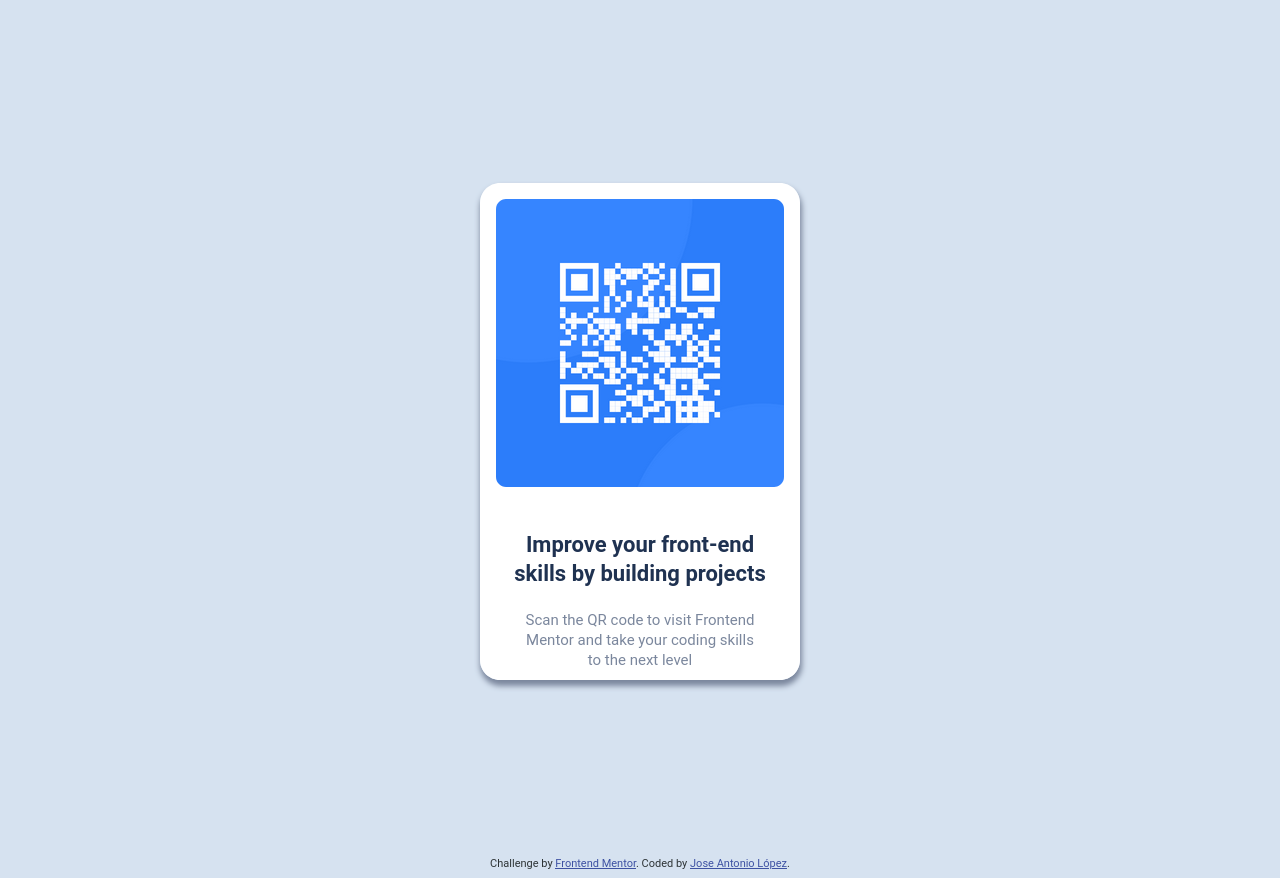
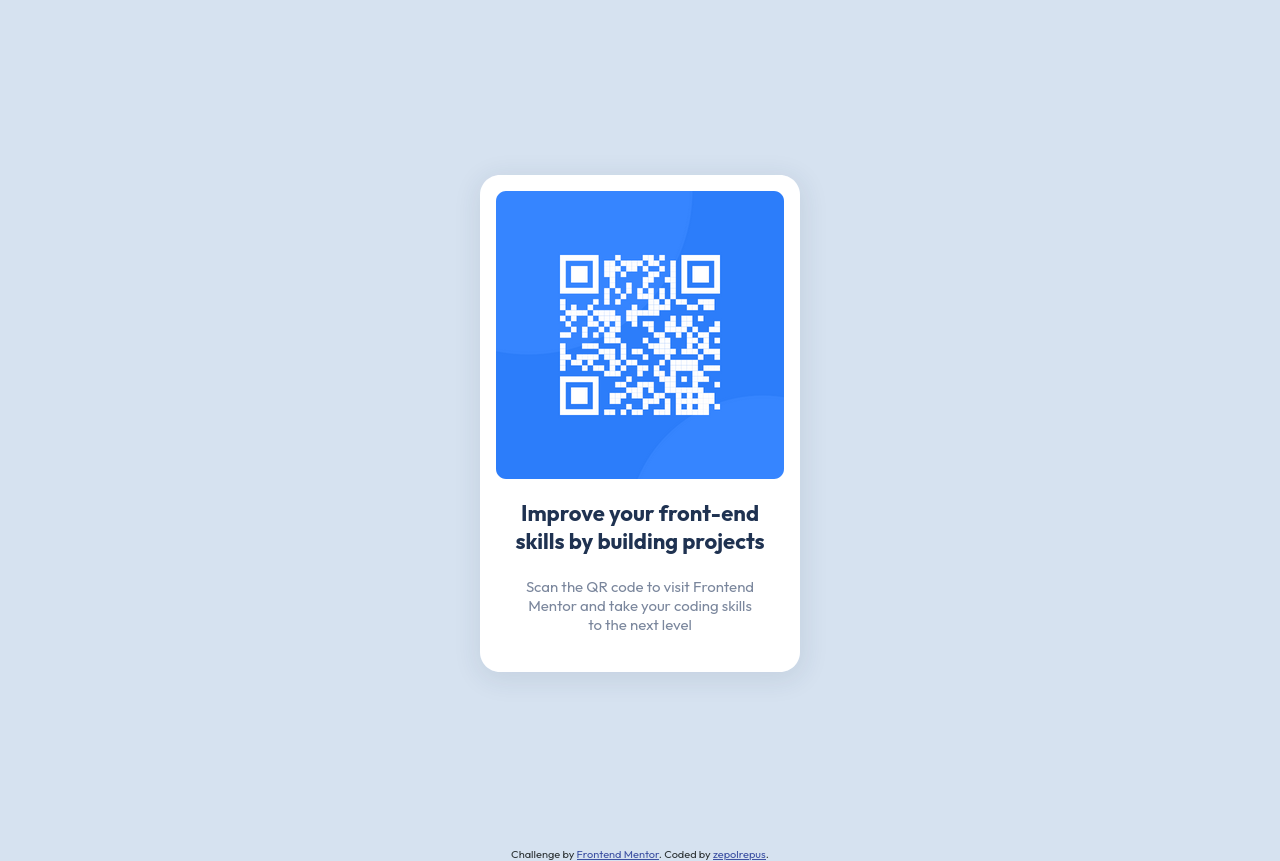
m

diff --git a/css/styles.css b/css/styles.css
@@ -6,6 +6,7 @@
     --light-gray: hsl(212, 45%, 89%);
     --grayish-blue: hsl(220, 15%, 55%);
     --dark-blue: hsl(218, 44%, 22%);
+    --shadow: hsla(218, 44%, 22%, 0.09);
 }
 
 body {
@@ -27,7 +28,7 @@ main {
     background-color: var(--white);
     place-self: center;
     border-radius: 20px;
-    box-shadow: 1px 5px 5px 1px var(--grayish-blue);
+    box-shadow: 1px 5px 25px 4px var(--shadow);
 }
 
 .card img {
